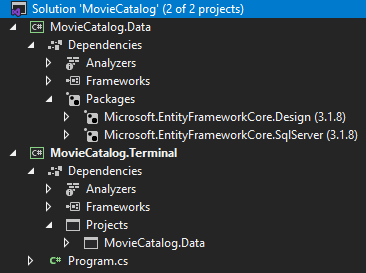
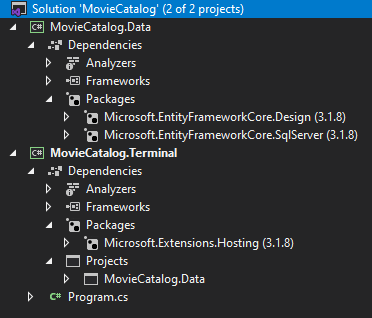
EF anyagok

diff --git a/ef/Feladat-1.md b/ef/Feladat-1.md
@@ -29,7 +29,7 @@ Lássunk neki!
 1. Adjunk a solutionhöz egy új .NET Core C# konzol projektet is MovieCatalog.Terminal néven!
 1. Töröljük a létrejött helyőrző fájlt (Class1.cs) az adatréteg projektben!
 1. Adjunk referenciát a konzolos projektből az adatréteg projektre! Értelemszerűen így a konzolos projektből el fogjuk érni az adatréteg típusait és API-ját, fordítva viszont nem.
-1. Adjunk referenciát a `Microsoft.Extensions.Hosting` NuGet csomagra a MovieCatalog.Data projektből!
+1. Adjunk referenciát a `Microsoft.Extensions.Hosting` NuGet csomagra a MovieCatalog.Terminal projektből!
 1. Adjunk referenciát a `Microsoft.EntityFrameworkCore.SqlServer` és `Microsoft.EntityFrameworkCore.Design` NuGet csomagokra a MovieCatalog.Data projektből!
 1. Állítsuk be a konzolos projektet Startup projektként, így F5 (Start with Debugging) hatására ez fog elindulni. Ezzel a projekt neve félkövér lesz.
 
